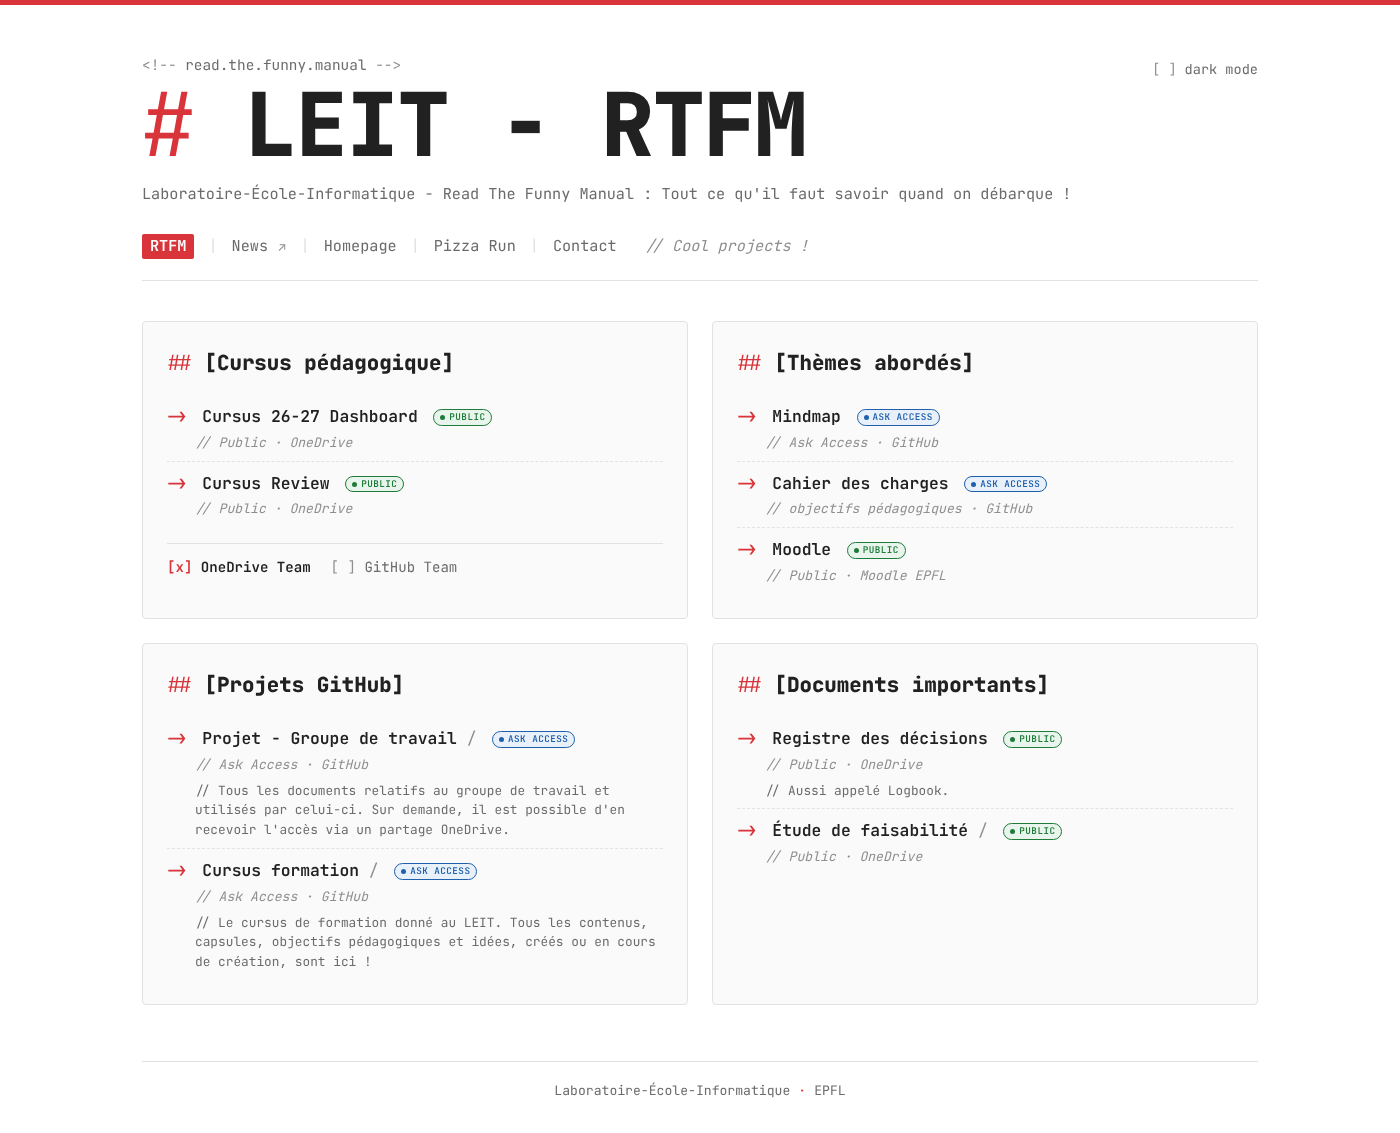
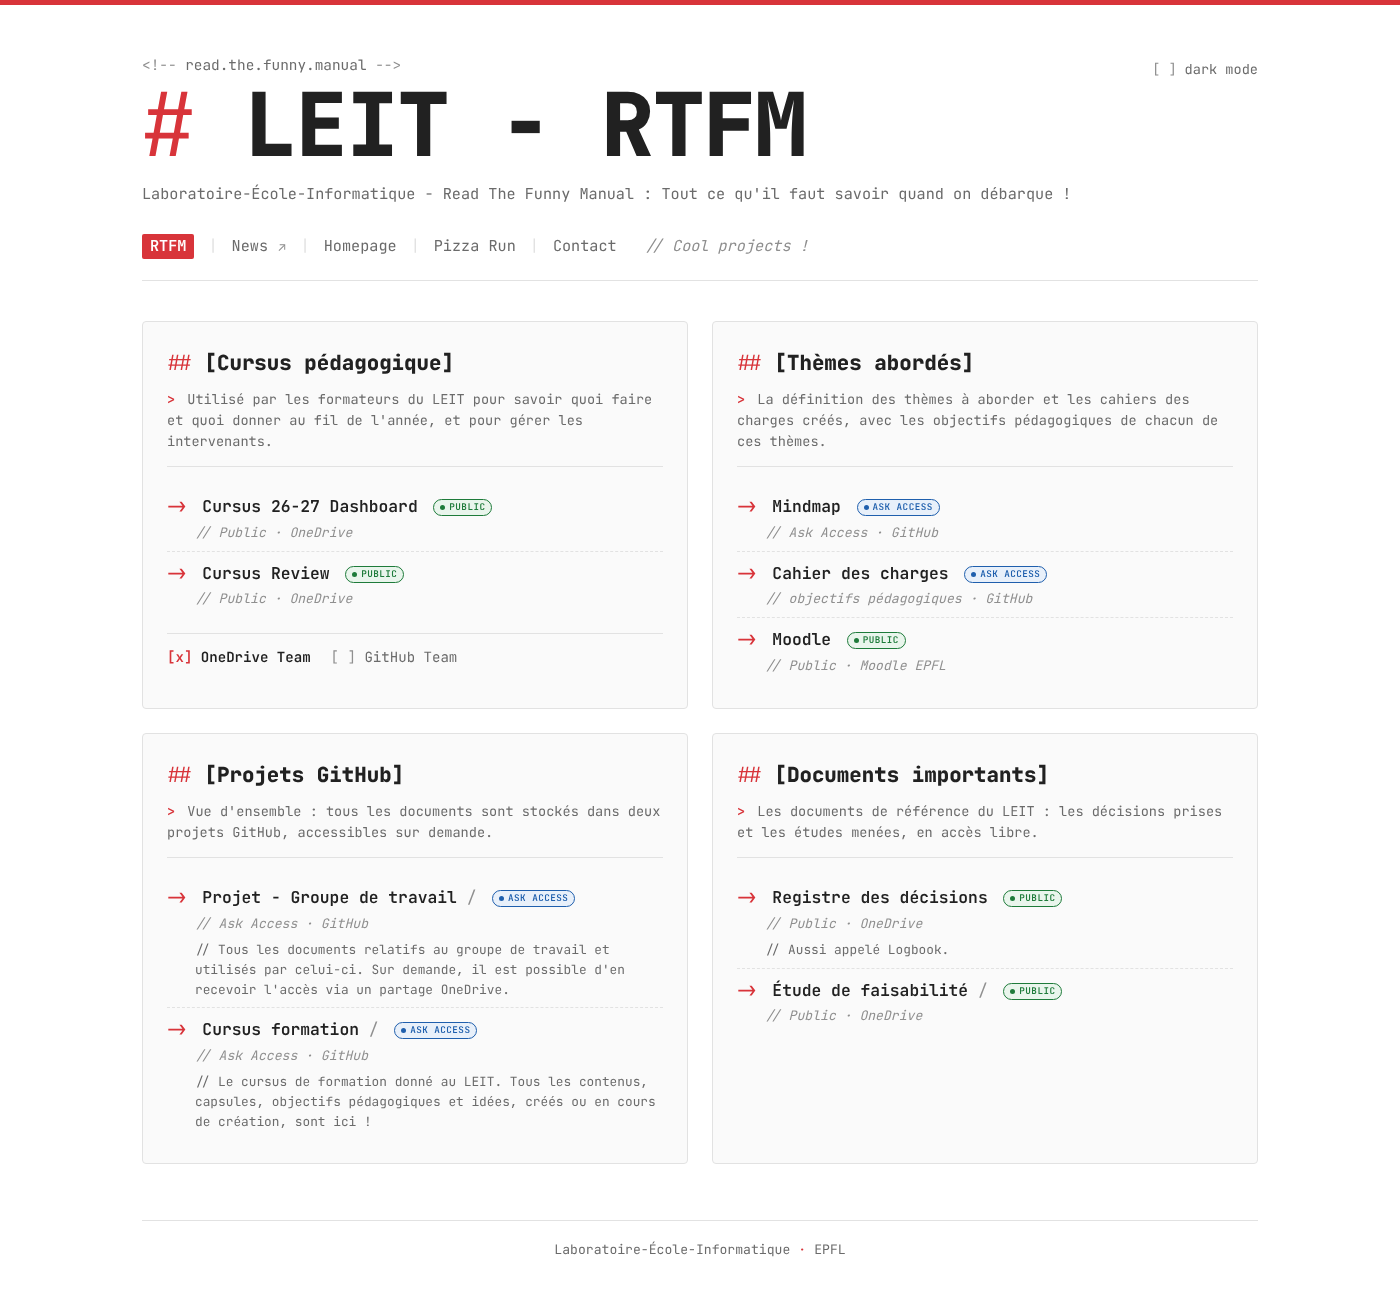
Sous-titre descriptif pour chaque catégorie
Claude-Session: https://claude.ai/code/session_01XgbK6VpnzqvLJ4Qjiadm7W

diff --git a/index.html b/index.html
@@ -47,6 +47,7 @@
       <!-- ============ CURSUS ============ -->
       <section class="card" id="cursus">
         <h2><span class="md">##</span> [Cursus pédagogique]</h2>
+        <p class="lead"><span class="md" aria-hidden="true">&gt;</span> Utilisé par les formateurs du LEIT pour savoir quoi faire et quoi donner au fil de l'année, et pour gérer les intervenants.</p>
 
         <ul class="links" data-source-links>
           <li>
@@ -79,6 +80,7 @@
       <!-- ============ THÈMES ============ -->
       <section class="card" id="themes">
         <h2><span class="md">##</span> [Thèmes abordés]</h2>
+        <p class="lead"><span class="md" aria-hidden="true">&gt;</span> La définition des thèmes à aborder et les cahiers des charges créés, avec les objectifs pédagogiques de chacun de ces thèmes.</p>
         <ul class="links">
           <li>
             <a href="https://github.com/laboratoire-it/project/blob/master/2_sujets_a_aborder/0_projet_mindmapV2.md" target="_blank" rel="noopener"><span class="arrow">-&gt;</span> Mindmap</a> <span class="pill ask" tabindex="0" data-tip="demander les accès : clic pour contacter" role="button">ask access</span>
@@ -104,6 +106,7 @@
       <!-- ============ PROJETS GITHUB ============ -->
       <section class="card" id="projets-github">
         <h2><span class="md">##</span> [Projets GitHub]</h2>
+        <p class="lead"><span class="md" aria-hidden="true">&gt;</span> Vue d'ensemble : tous les documents sont stockés dans deux projets GitHub, accessibles sur demande.</p>
         <ul class="links">
           <li>
             <a href="https://github.com/laboratoire-it/project" target="_blank" rel="noopener"><span class="arrow">-&gt;</span> Projet - Groupe de travail&nbsp;<span class="folder" aria-hidden="true">/</span></a> <span class="pill ask" tabindex="0" data-tip="demander les accès : clic pour contacter" role="button">ask access</span>
@@ -125,6 +128,7 @@
       <!-- ============ DOCUMENTS IMPORTANTS ============ -->
       <section class="card" id="documents-importants">
         <h2><span class="md">##</span> [Documents importants]</h2>
+        <p class="lead"><span class="md" aria-hidden="true">&gt;</span> Les documents de référence du LEIT : les décisions prises et les études menées, en accès libre.</p>
         <ul class="links">
           <li>
             <a href="https://epflch-my.sharepoint.com/:b:/g/personal/mathieu_burnat_epfl_ch/IQBypr_xuHOPR6p_lPx1JBUsAa2zLxhkt9Des0nOHT0uO8k?e=SgFsXY" target="_blank" rel="noopener"><span class="arrow">-&gt;</span> Registre des décisions</a> <span class="pill public" tabindex="0" data-tip="clic et c'est ouvert">public</span>

diff --git a/style.css b/style.css
@@ -180,6 +180,17 @@ h1 {
 
 h2 { margin: 0 0 16px; font-size: 1.3rem; font-weight: 800; }
 
+/* Sous-titre des catégories, façon citation markdown */
+.lead {
+  margin: -6px 0 18px;
+  padding-bottom: 14px;
+  border-bottom: 1px solid var(--line);
+  color: var(--muted);
+  font-size: 0.85rem;
+  line-height: 1.55;
+}
+.lead .md { margin-right: 4px; font-weight: 600; }
+
 .links { list-style: none; margin: 0; padding: 0; }
 .links li { padding: 8px 0; }
 .links li + li { border-top: 1px dashed var(--line); }
